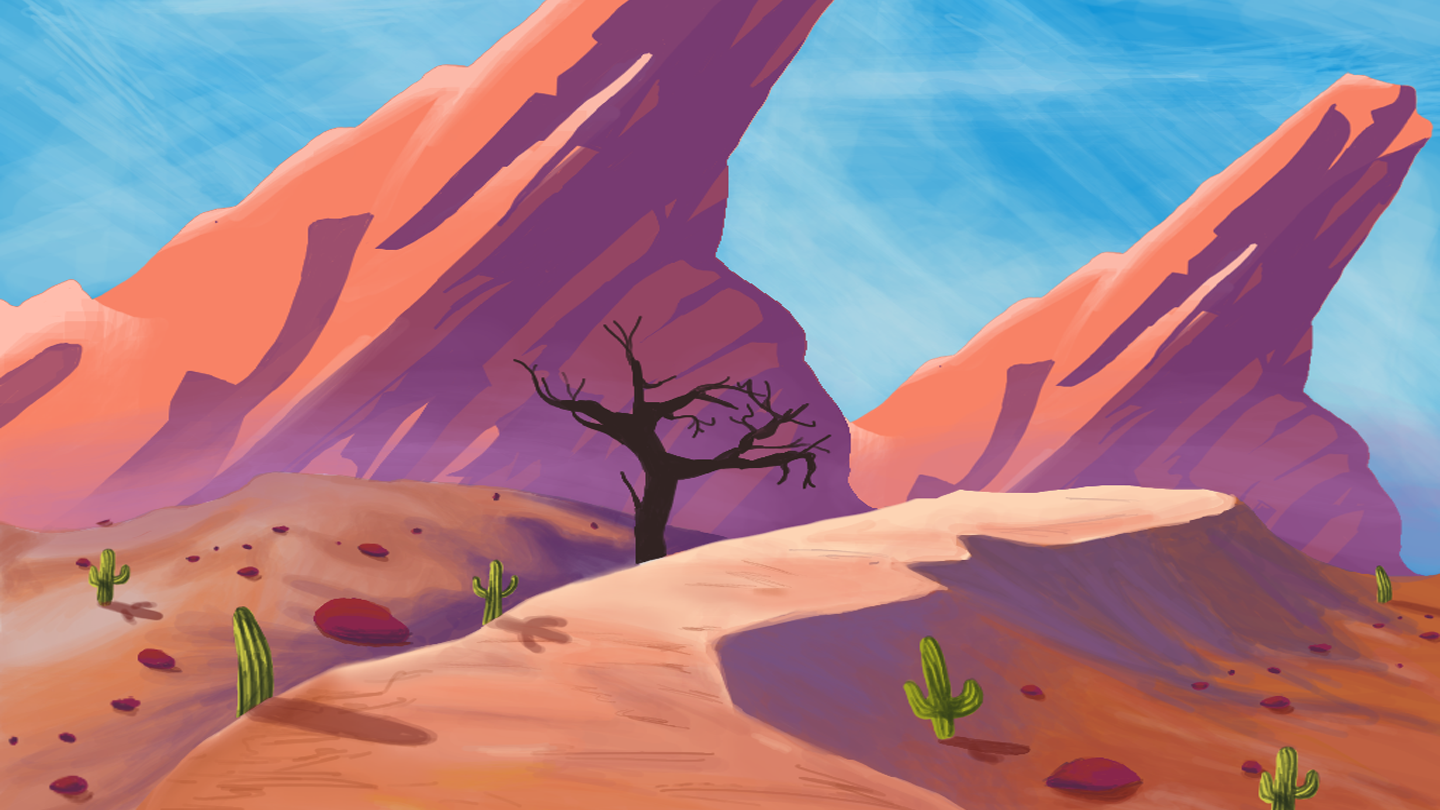
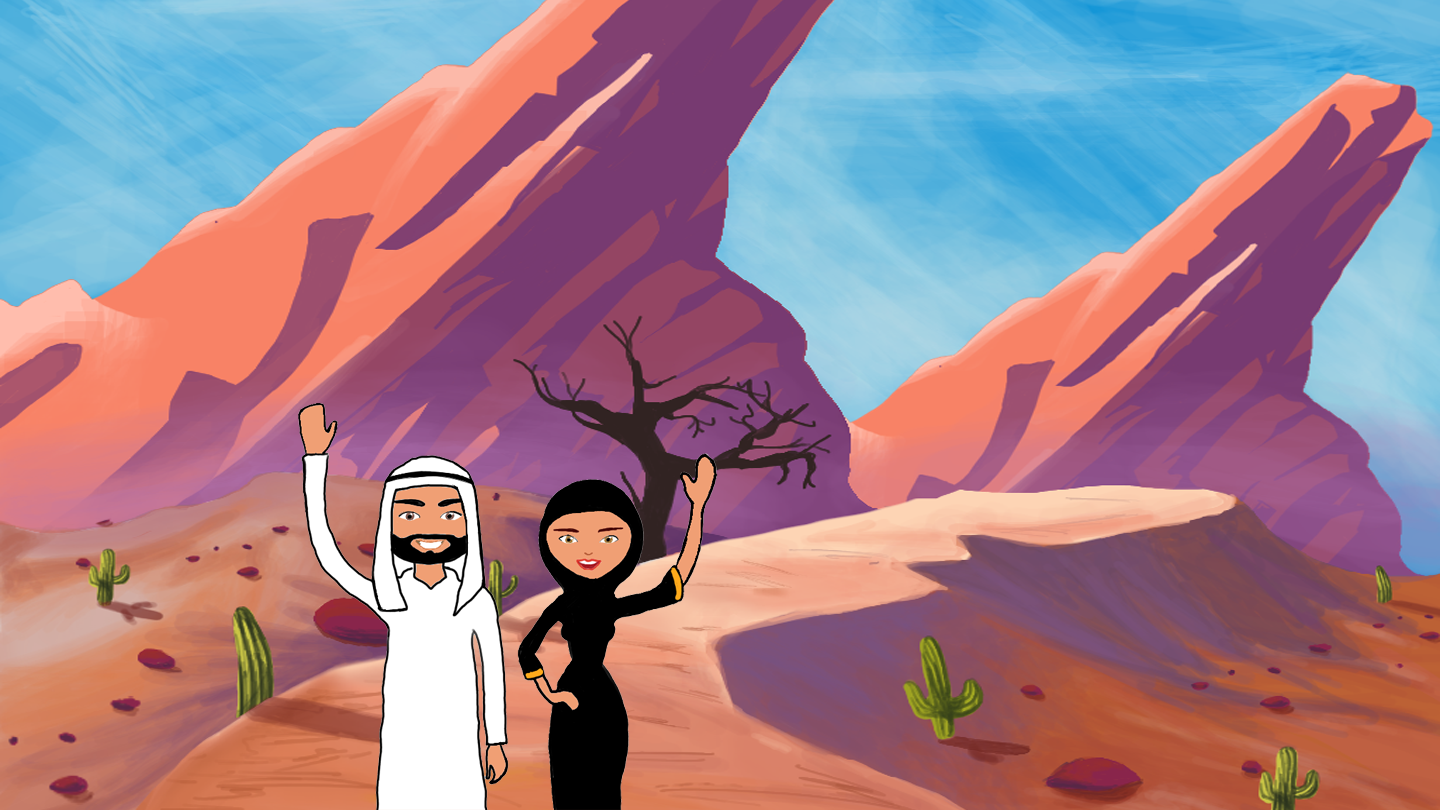
ZEEEEEEUBI

Changed region(s): [[0.1875, 0.4938, 0.5, 1.0]]

diff --git a/story.cpp b/story.cpp
@@ -17,7 +17,7 @@ void Story::firstScene(){
 }
 
 void Story::secondScene(){
-    this->centralWidget()->setStyleSheet("QWidget#storyBackground {background-image: url(':images/Images/desert.png')}");
+    this->centralWidget()->setStyleSheet("QWidget#storyBackground {background-image: url(':images/Images/desert brume.png')}");
     this->displayText("Un jour, alors que tout était calme, le jeune Sahri rencontra un homme tout de blanc vêtu. ");
     this->clearMapTimer();
     this->createTimer(1,"A ses côtés se tenait une jeune fille, dont le visage était masqué par une épaisse brume.",true);
@@ -42,7 +42,7 @@ void Story::thirdScene(){
 }
 
 void Story::fourthScene(){
-    this->centralWidget()->setStyleSheet("QWidget#storyBackground {background-image: url(':images/Images/CitySahri.jpg')}");
+    this->centralWidget()->setStyleSheet("QWidget#storyBackground {background-image: url(':images/Images/desert.png')}");
     this->displayText("Le jeune Sahri s'approcha alors, comme si sa destinée s'accomplissait");
     this->clearMapTimer();
     this->createTimer(1,"Il rapprocha sa main du visage brumeux de la jeune fille.",true);
@@ -56,7 +56,7 @@ void Story::fourthScene(){
 }
 
 void Story::fifthScene(){
-    this->centralWidget()->setStyleSheet("QWidget#storyBackground {background-image: url(':images/Images/CitySahri.jpg')}");
+    this->centralWidget()->setStyleSheet("QWidget#storyBackground {background-image: url(':images/Images/desert vide.png')}");
     this->displayText("Ainsi le sable et le vent, séparés par le temps et l'oubli étaient réunis.");
     this->clearMapTimer();
     this->createTimer(1,"Ainsi naquit le grand désert du Sahara.",true);
